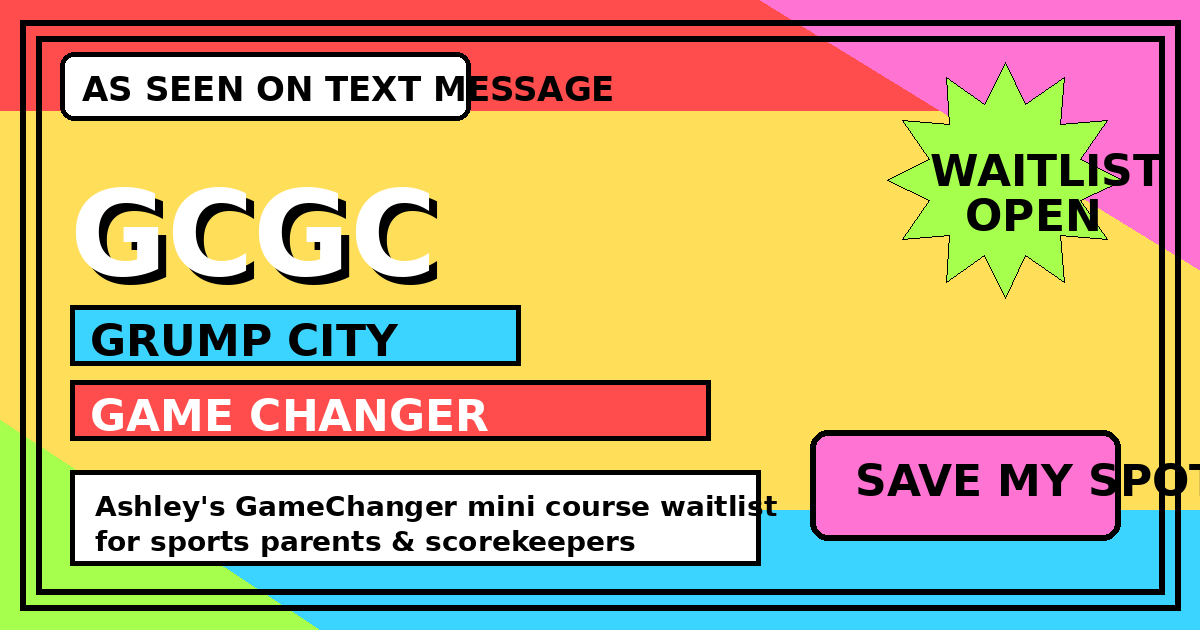
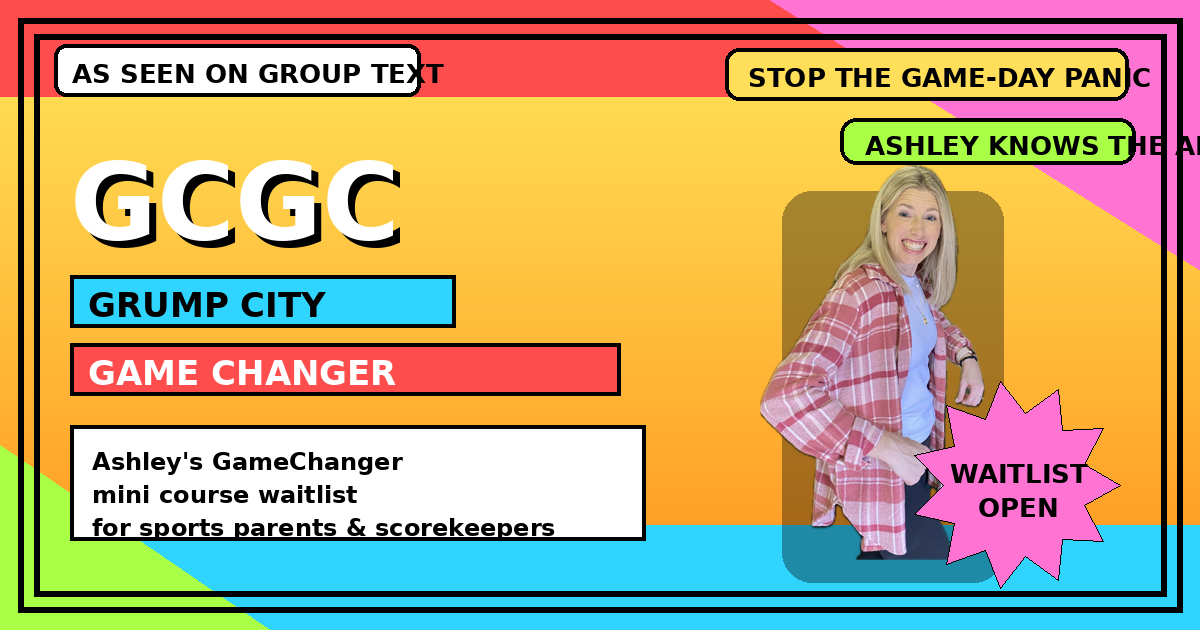
Refine OG image with Ashley face and louder infomercial style

diff --git a/scripts/generate-og-image.py b/scripts/generate-og-image.py
@@ -1,34 +1,44 @@
 from PIL import Image, ImageDraw, ImageFont
 from pathlib import Path
+import math
 
 W, H = 1200, 630
-out = Path('/home/beans/.openclaw/workspace/learn-gamechanger/public/og-image.png')
+root = Path('/home/beans/.openclaw/workspace/learn-gamechanger')
+out = root / 'public/og-image.png'
+face_path = root / 'public/ashley/ashley-cutout-2.png'
 
 img = Image.new('RGB', (W, H), '#ffde59')
 d = ImageDraw.Draw(img)
 
-# Background blocks / infomercial vibe
 colors = {
     'yellow': '#ffde59',
     'red': '#ff4d4d',
-    'blue': '#3bd3ff',
+    'blue': '#30d5ff',
     'pink': '#ff73d2',
-    'lime': '#a6ff4d',
+    'lime': '#a8ff45',
+    'orange': '#ff9f1c',
     'black': '#000000',
     'white': '#ffffff',
 }
 
-d.rectangle([0, 0, W, H], fill=colors['yellow'])
-d.rectangle([0, 0, W, 110], fill=colors['red'])
-d.rectangle([0, H-120, W, H], fill=colors['blue'])
-d.polygon([(760, 0), (1200, 0), (1200, 270)], fill=colors['pink'])
-d.polygon([(0, 420), (320, 630), (0, 630)], fill=colors['lime'])
+# Background
+for y in range(H):
+    blend = y / H
+    r1, g1, b1 = (255, 233, 92)
+    r2, g2, b2 = (255, 146, 28)
+    r = int(r1 * (1 - blend) + r2 * blend)
+    g = int(g1 * (1 - blend) + g2 * blend)
+    b = int(b1 * (1 - blend) + b2 * blend)
+    d.line([(0, y), (W, y)], fill=(r, g, b))
 
-# Borders
-for rect in ([20, 20, W-20, H-20], [36, 36, W-36, H-36]):
+d.rectangle([0, 0, W, 96], fill=colors['red'])
+d.rectangle([0, H - 105, W, H], fill=colors['blue'])
+d.polygon([(770, 0), (1200, 0), (1200, 270)], fill=colors['pink'])
+d.polygon([(0, 445), (270, 630), (0, 630)], fill=colors['lime'])
+
+for rect in ([18, 18, W - 18, H - 18], [34, 34, W - 34, H - 34]):
     d.rectangle(rect, outline=colors['black'], width=6)
 
-# Fonts
 font_paths = [
     '/usr/share/fonts/truetype/dejavu/DejaVuSans-Bold.ttf',
     '/usr/share/fonts/truetype/liberation2/LiberationSans-Bold.ttf',
@@ -41,56 +51,77 @@ else:
     font_path = None
 
 if font_path:
-    title = ImageFont.truetype(font_path, 118)
-    subtitle = ImageFont.truetype(font_path, 44)
-    small = ImageFont.truetype(font_path, 28)
-    badge = ImageFont.truetype(font_path, 34)
+    title = ImageFont.truetype(font_path, 106)
+    subtitle = ImageFont.truetype(font_path, 34)
+    small = ImageFont.truetype(font_path, 24)
+    badge = ImageFont.truetype(font_path, 26)
+    burst_font = ImageFont.truetype(font_path, 26)
 else:
-    title = subtitle = small = badge = ImageFont.load_default()
+    title = subtitle = small = badge = burst_font = ImageFont.load_default()
 
-# Top badge
-badge_box = [60, 52, 470, 120]
-d.rounded_rectangle(badge_box, radius=14, fill=colors['white'], outline=colors['black'], width=5)
-d.text((82, 69), 'AS SEEN ON TEXT MESSAGE', font=badge, fill=colors['black'])
+# top badge
+badge_box = [54, 44, 420, 96]
+d.rounded_rectangle(badge_box, radius=12, fill=colors['white'], outline=colors['black'], width=4)
+d.text((72, 58), 'AS SEEN ON GROUP TEXT', font=badge, fill=colors['black'])
 
-# Main title with shadow
-main_x, main_y = 70, 165
-for dx, dy in [(8, 8)]:
-    d.text((main_x + dx, main_y + dy), 'GCGC', font=title, fill=colors['black'])
+# main title
+main_x, main_y = 70, 140
+d.text((main_x + 7, main_y + 7), 'GCGC', font=title, fill=colors['black'])
 d.text((main_x, main_y), 'GCGC', font=title, fill=colors['white'])
 
-# Subtitle bars
-sub1 = 'GRUMP CITY'
-sub2 = 'GAME CHANGER'
-box1 = [70, 305, 520, 365]
-box2 = [70, 380, 710, 440]
-d.rectangle(box1, fill=colors['blue'], outline=colors['black'], width=5)
-d.rectangle(box2, fill=colors['red'], outline=colors['black'], width=5)
-d.text((90, 315), sub1, font=subtitle, fill=colors['black'])
-d.text((90, 390), sub2, font=subtitle, fill=colors['white'])
+# subtitle ribbons
+box1 = [70, 275, 455, 327]
+box2 = [70, 343, 620, 395]
+d.rectangle(box1, fill=colors['blue'], outline=colors['black'], width=4)
+d.rectangle(box2, fill=colors['red'], outline=colors['black'], width=4)
+d.text((88, 285), 'GRUMP CITY', font=subtitle, fill=colors['black'])
+d.text((88, 353), 'GAME CHANGER', font=subtitle, fill=colors['white'])
 
-# Description box
-info = [70, 470, 760, 565]
-d.rectangle(info, fill=colors['white'], outline=colors['black'], width=5)
-d.text((95, 490), "Ashley's GameChanger mini course waitlist", font=small, fill=colors['black'])
-d.text((95, 525), 'for sports parents & scorekeepers', font=small, fill=colors['black'])
+# info box
+info = [70, 425, 645, 540]
+d.rectangle(info, fill=colors['white'], outline=colors['black'], width=4)
+d.text((92, 447), "Ashley's GameChanger", font=small, fill=colors['black'])
+d.text((92, 480), 'mini course waitlist', font=small, fill=colors['black'])
+d.text((92, 513), 'for sports parents & scorekeepers', font=small, fill=colors['black'])
 
-# Price-style burst
-burst_center = (1005, 180)
+# Ashley face / cutout on right
+if face_path.exists():
+    face = Image.open(face_path).convert('RGBA')
+    bbox = face.getchannel('A').getbbox()
+    if bbox:
+        face = face.crop(bbox)
+    target_h = 395
+    scale = target_h / face.height
+    face = face.resize((int(face.width * scale), target_h))
+    fx = 760
+    fy = 165
+
+    shadow = Image.new('RGBA', (face.width + 20, face.height + 20), (0, 0, 0, 0))
+    sd = ImageDraw.Draw(shadow)
+    sd.rounded_rectangle([12, 12, face.width + 8, face.height + 8], radius=30, fill=(0, 0, 0, 90))
+    img.paste(shadow.convert('RGB'), (fx + 10, fy + 14), shadow)
+    img.paste(face, (fx, fy), face)
+
+    # sticker by face
+    sticker = [840, 118, 1135, 164]
+    d.rounded_rectangle(sticker, radius=16, fill=colors['lime'], outline=colors['black'], width=4)
+    d.text((865, 130), 'ASHLEY KNOWS THE APP', font=badge, fill=colors['black'])
+
+# burst
+burst_center = (1015, 485)
 points = []
-import math
-for i in range(24):
-    angle = math.radians(i * 15)
-    r = 118 if i % 2 == 0 else 78
+for i in range(22):
+    angle = math.radians(i * (360 / 22))
+    r = 105 if i % 2 == 0 else 72
     points.append((burst_center[0] + r * math.cos(angle), burst_center[1] + r * math.sin(angle)))
-d.polygon(points, fill=colors['lime'], outline=colors['black'])
-d.text((930, 145), 'WAITLIST', font=subtitle, fill=colors['black'])
-d.text((965, 190), 'OPEN', font=subtitle, fill=colors['black'])
+d.polygon(points, fill=colors['pink'], outline=colors['black'])
+d.text((950, 458), 'WAITLIST', font=burst_font, fill=colors['black'])
+d.text((978, 492), 'OPEN', font=burst_font, fill=colors['black'])
 
-# Bottom-right CTA sticker
-cta = [810, 430, 1120, 540]
-d.rounded_rectangle(cta, radius=18, fill=colors['pink'], outline=colors['black'], width=6)
-d.text((855, 455), 'SAVE MY SPOT', font=subtitle, fill=colors['black'])
+# extra ridiculous banner
+cta = [725, 48, 1128, 100]
+d.rounded_rectangle(cta, radius=14, fill=colors['yellow'], outline=colors['black'], width=4)
+d.text((748, 62), 'STOP THE GAME-DAY PANIC', font=badge, fill=colors['black'])
 
 img.save(out)
 print(out)
